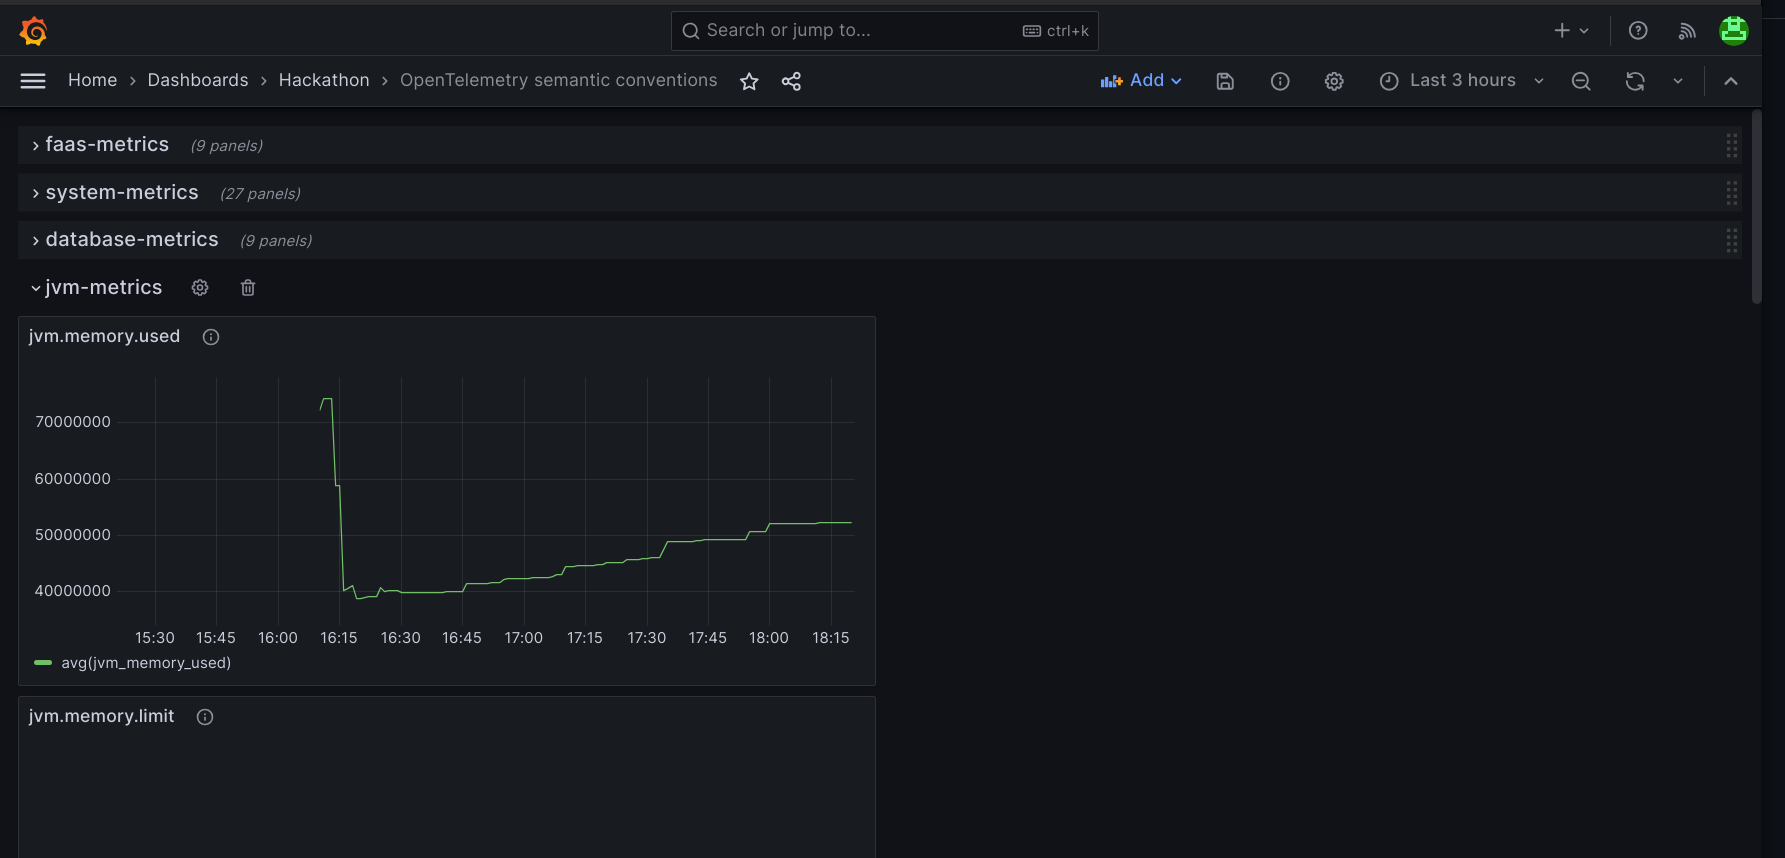
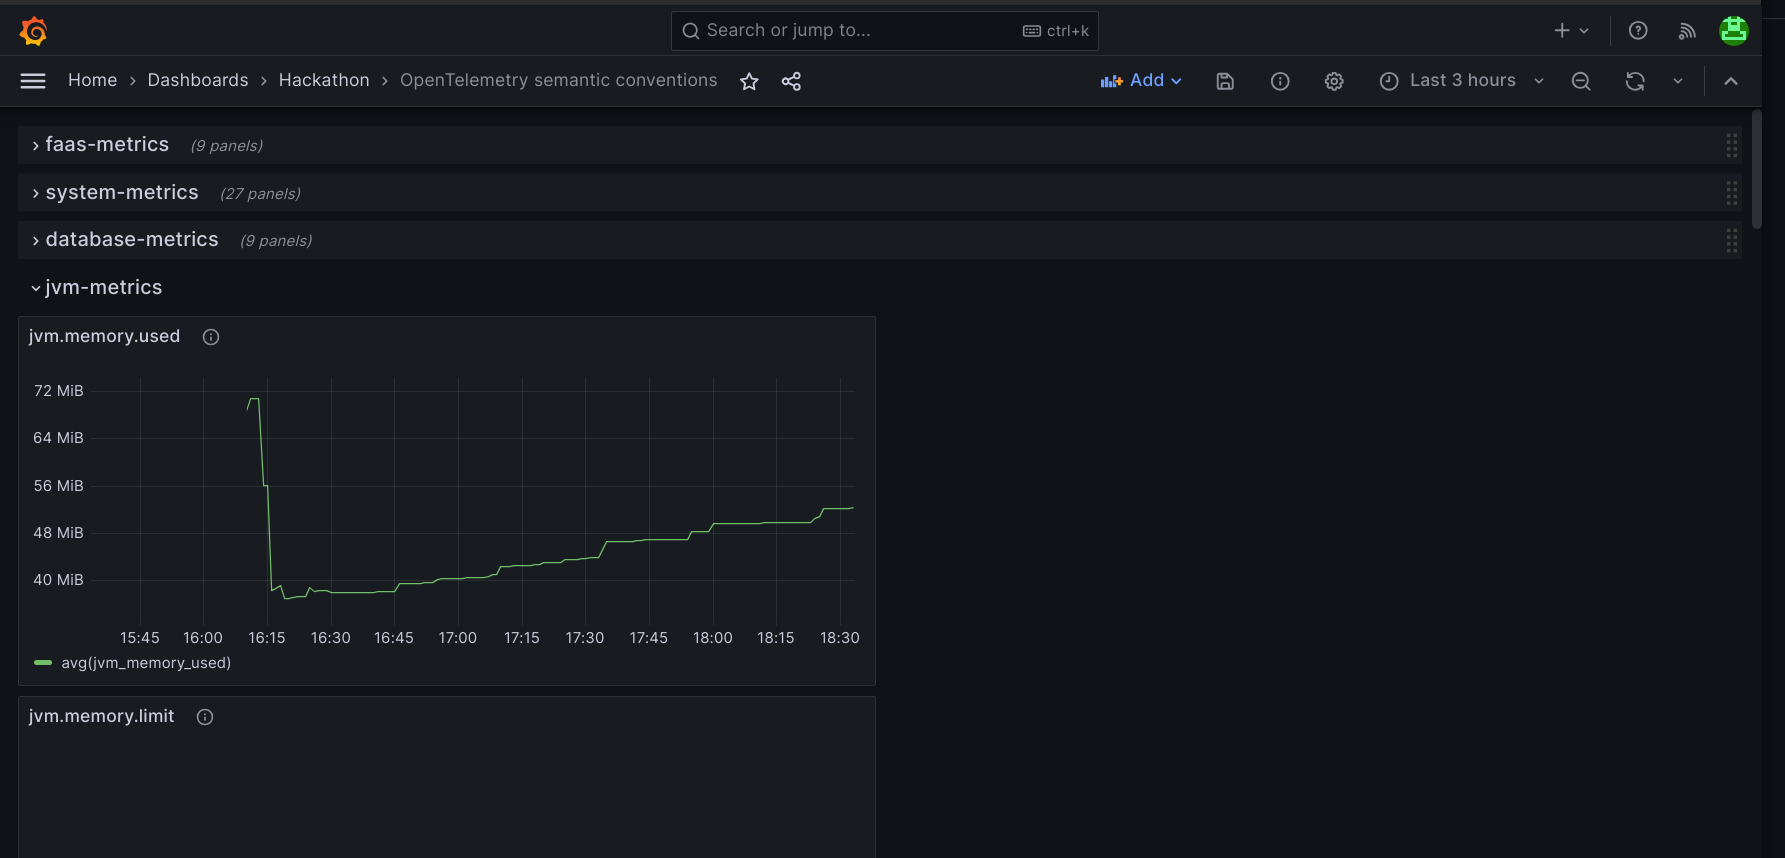
Add unit support

diff --git a/oteldashboardcatalog/types.py b/oteldashboardcatalog/types.py
@@ -34,17 +34,26 @@ class DashboardGroup(object):
         return jsondata
 
 class DashboardMetric(object):
+
+    unit_map = {
+        "By": "bytes"
+    }
+
     def __init__(self, name, instrument, unit, description):
         self.name = name
         self.instrument = instrument
         self.unit = unit
         self.description = description
 
+        if self.unit in self.unit_map:
+            self.unit = self.unit_map[self.unit]
+
     def to_json(self):
         jsondata = copy.deepcopy(templates.METRIC)
 
         jsondata["description"] = self.description
         jsondata["title"] = self.name
+        jsondata["fieldConfig"]["defaults"]["unit"] = self.unit
         for target in jsondata["targets"]:
             extension = ""
             if self.instrument == "histogram":
